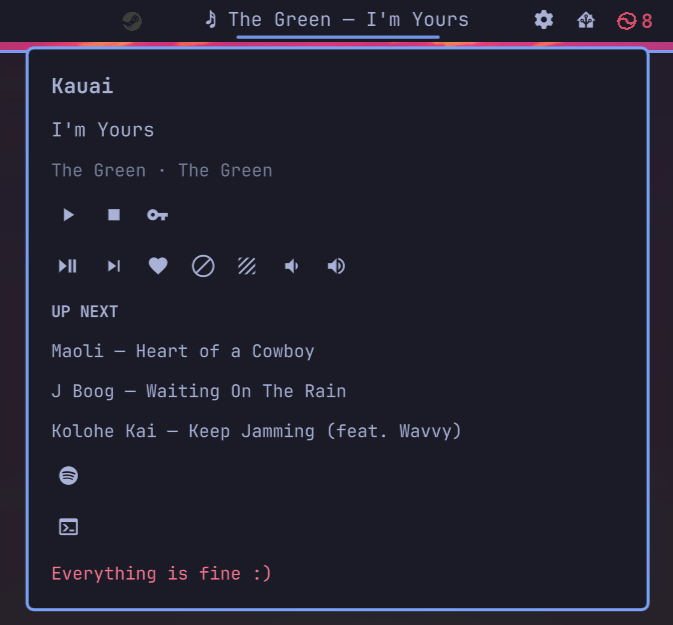
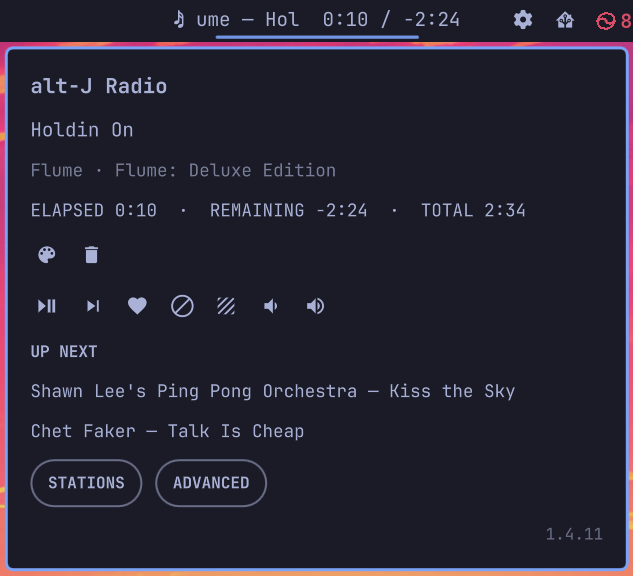
Refresh marketplace preview

diff --git a/BarWidget.qml b/BarWidget.qml
@@ -9,7 +9,7 @@ BarWidget {
   moduleName: "io.github.nicholasladwig.pianobar-pandora-widget"
 
   property var player: ({})
-  property string pluginVersion: "1.4.11"
+  property string pluginVersion: "1.4.12"
   property string errorText: ""
   property string actionFeedback: ""
   property string pendingAction: ""

diff --git a/README.md b/README.md
@@ -2,6 +2,8 @@
 
 Play Pandora from the Omarchy Quattro bar. The widget starts and manages pianobar in a detached session with no visible terminal. At rest the bar shows only a music note. During playback it slowly scrolls the artist and song title. Left click opens the player dropdown; right click opens widget settings.
 
+![Pianobar Pandora Widget playing music in the Omarchy bar](preview.png)
+
 ## Install
 
 ```sh
@@ -40,6 +42,7 @@ Version 1.4.9 places the Stations and Advanced controls side by side to reduce
 the player panel height. Version 1.4.10 shows a brief, theme-aware status line
 for each player action. Version 1.4.11 uses the player's own action wording,
 such as “Loving song” and “Banning song”, without naming the player in the panel.
+Version 1.4.12 refreshes the published preview with the current player panel.
 
 To reinstall from a clean plugin checkout:
 
